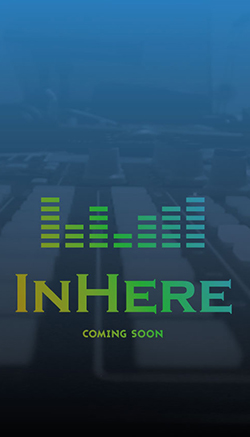
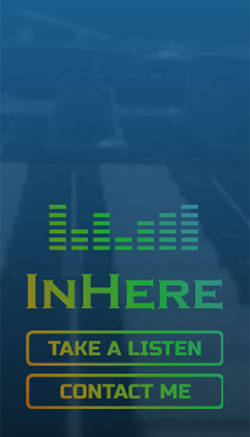
link en images naar InHere site bijgewerkt (van "coming soon" naar het is zo ver!)

diff --git a/index.php b/index.php
@@ -172,7 +172,7 @@
                 <a href="https://www.inheremusic.com" target="_blank" class="work_item content_work_element" id="work_item_2" data-image-col='images/work/preview_2_inhere.jpg', data-image-bw='images/work/preview_2_inhere_bw.jpg'>
                     <div class="work_item_label" id="work_item_label_2">
                         <h2>Website InHere</h2>
-                        <p>coming soon: website for my musical project</p>
+                        <p>wordpress website for my musical project</p>
                     </div>
                     <div class="work_item_link" id="work_item_link_2">view</div>
                 </a>
